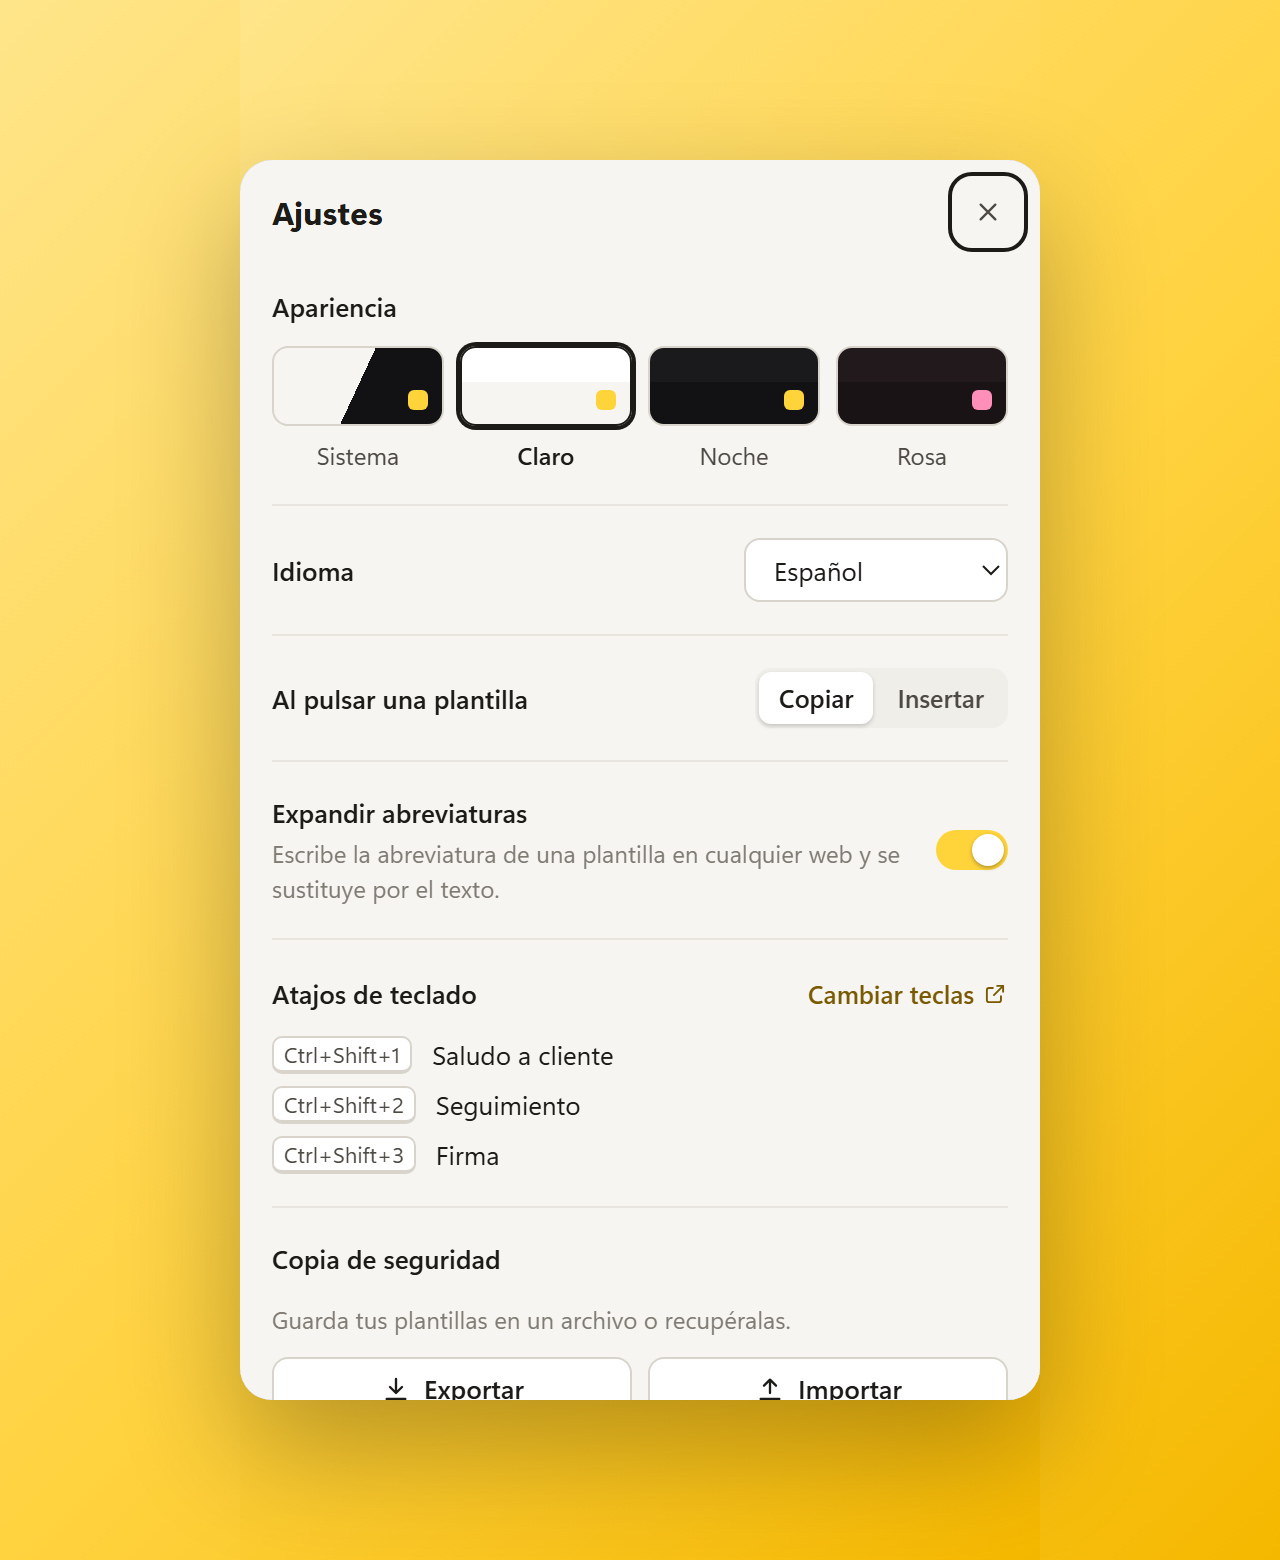
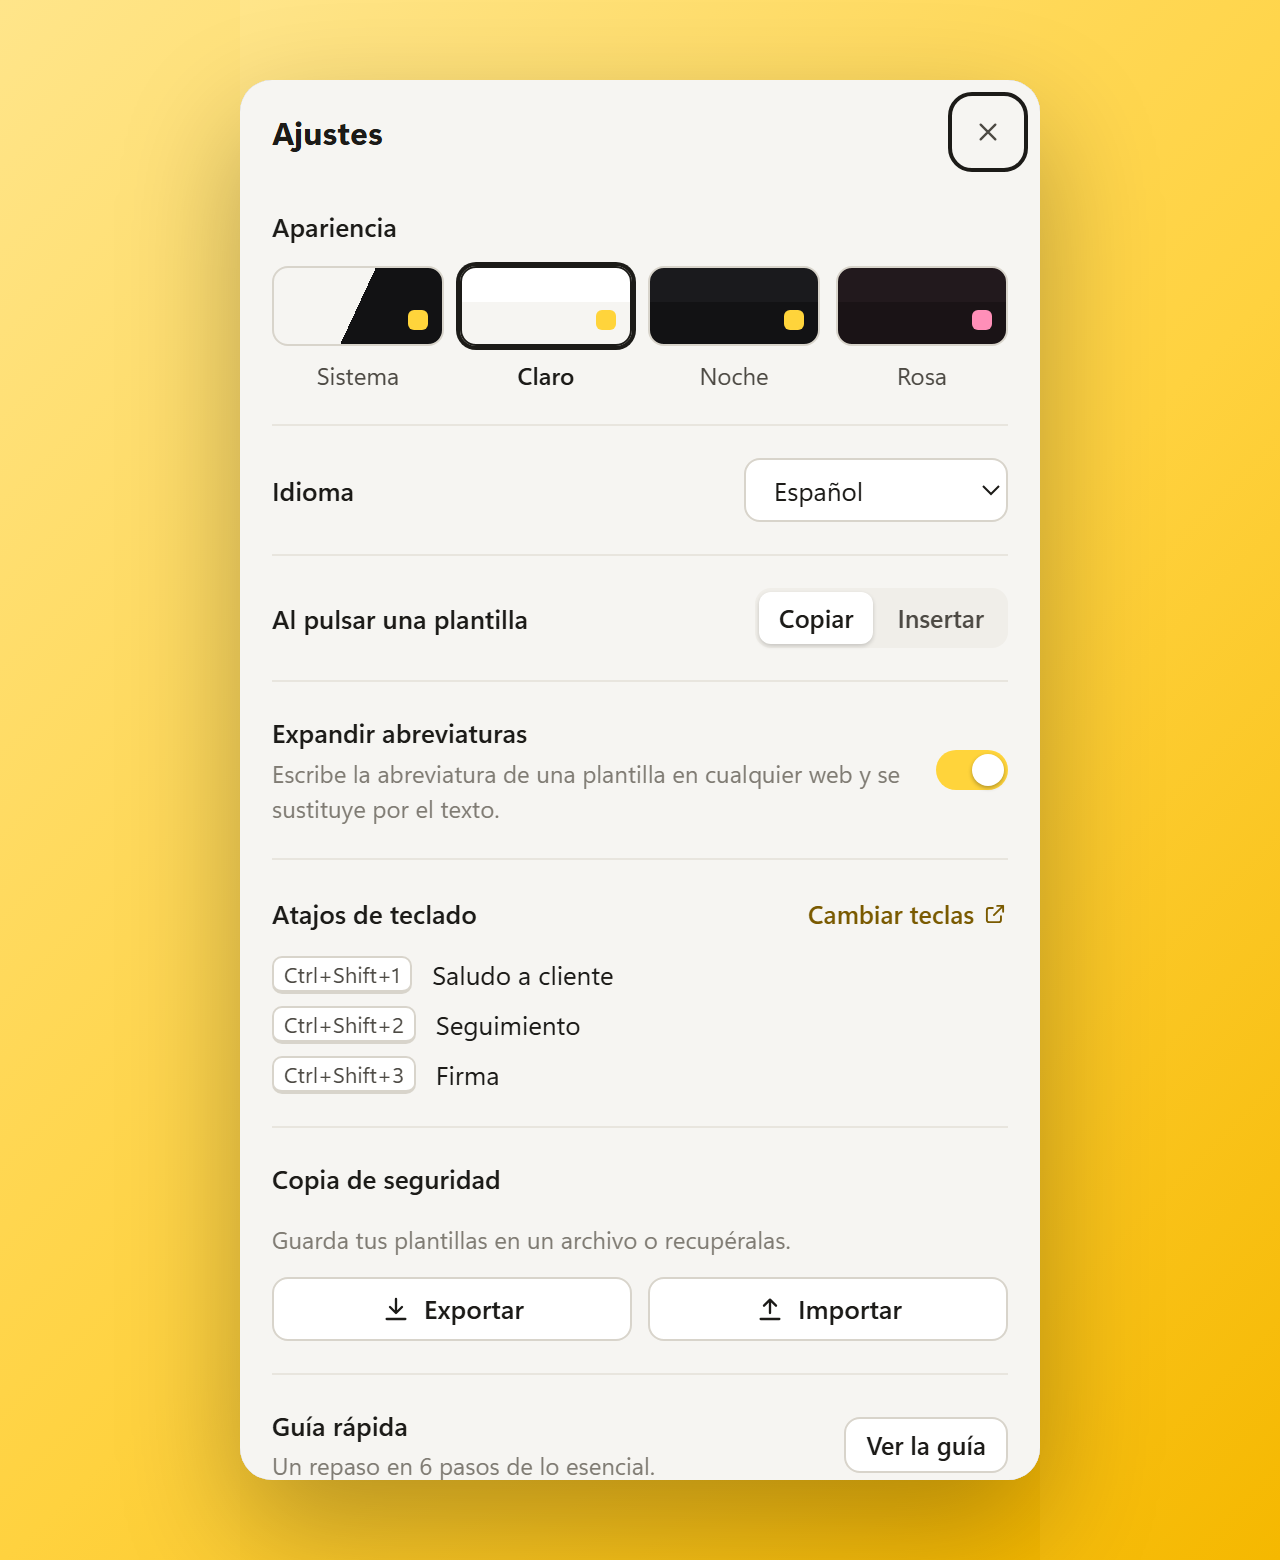
Fraseo 1.3.1: README, capturas (guía rápida) y política actualizados

diff --git a/README.md b/README.md
@@ -7,7 +7,7 @@
 
 **Plantillas y abreviaturas de texto para Chrome.**
 
-[![Descargar](https://img.shields.io/badge/⬇_Descargar-v1.3.0-ffd23f?style=for-the-badge&logo=googlechrome&logoColor=black)](https://github.com/dannymedinacoronel/Fraseo-Extension/releases/latest) ![Manifest V3](https://img.shields.io/badge/Manifest-V3-7b2ff7?style=flat-square) ![Chrome 120+](https://img.shields.io/badge/Chrome-120%2B-4285F4?style=flat-square&logo=googlechrome&logoColor=white) ![Idiomas](https://img.shields.io/badge/idiomas-3-3b82f6?style=flat-square) ![Gratis](https://img.shields.io/badge/precio-gratis-2e9b63?style=flat-square)
+[![Descargar](https://img.shields.io/badge/⬇_Descargar-v1.3.1-ffd23f?style=for-the-badge&logo=googlechrome&logoColor=black)](https://github.com/dannymedinacoronel/Fraseo-Extension/releases/latest) ![Manifest V3](https://img.shields.io/badge/Manifest-V3-7b2ff7?style=flat-square) ![Chrome 120+](https://img.shields.io/badge/Chrome-120%2B-4285F4?style=flat-square&logo=googlechrome&logoColor=white) ![Idiomas](https://img.shields.io/badge/idiomas-3-3b82f6?style=flat-square) ![Gratis](https://img.shields.io/badge/precio-gratis-2e9b63?style=flat-square)
 
 **[Capturas](#capturas)** · **[Funciones](#lo-esencial)** · **[Instalar](#instalar-en-chrome)** · **[Privacidad](#privacidad)** · **[Soporte](#soporte)**
 
@@ -21,9 +21,9 @@
 |---|---|---|
 | ![Panel de Fraseo en tema claro](docs/capturas/panel-claro.png) | ![Panel de Fraseo en tema Noche](docs/capturas/panel-noche.png) | ![Panel de Fraseo en tema Rosa](docs/capturas/panel-rosa.png) |
 
-| Editor de plantillas | Ajustes |
-|---|---|
-| ![Editor de plantillas con formato, categorías y variables](docs/capturas/editor.png) | ![Ajustes: apariencia, idioma, atajos y copia de seguridad](docs/capturas/ajustes.png) |
+| Editor de plantillas | Ajustes | Guía rápida |
+|---|---|---|
+| ![Editor de plantillas con formato, categorías y variables](docs/capturas/editor.png) | ![Ajustes: apariencia, idioma, atajos y copia de seguridad](docs/capturas/ajustes.png) | ![Guía rápida de 6 pasos](docs/capturas/guia.png) |
 
 ## Lo esencial
 
@@ -37,7 +37,7 @@
 
 ## Instalar en Chrome
 
-1. Ve a **[Releases](../../releases/latest)** y descarga `fraseo-1.3.0.zip`.
+1. Ve a **[Releases](../../releases/latest)** y descarga `fraseo-1.3.1.zip`.
 2. Descomprime el ZIP en una carpeta que no vayas a borrar (Chrome la lee desde ahí).
 3. Abre `chrome://extensions` y activa el **Modo de desarrollador**.
 4. Pulsa **Cargar descomprimida** y selecciona la carpeta descomprimida.

diff --git a/PRIVACY.md b/PRIVACY.md
@@ -1,6 +1,6 @@
 # Privacidad y permisos de Fraseo
 
-*Actualizado: 27 de octubre de 2026 · Versión 1.3.0 · Responsable: Danny Medina Coronel ([empresademkor@gmail.com](mailto:empresademkor@gmail.com))*
+*Actualizado: 27 de octubre de 2026 · Versión 1.3.1 · Responsable: Danny Medina Coronel ([empresademkor@gmail.com](mailto:empresademkor@gmail.com))*
 
 ## En pocas palabras
 
@@ -41,7 +41,7 @@ Puedes editar o eliminar plantillas desde Fraseo, exportar una copia, desactivar
 
 ## Seguridad y alcance
 
-Fraseo no incluye conexión a un servidor propio ni bibliotecas externas. Este aviso describe el comportamiento de la versión 1.3.0, se ofrece como información de privacidad y no sustituye la política del sitio web o del proveedor de búsqueda al que decidas enviar un texto.
+Fraseo no incluye conexión a un servidor propio ni bibliotecas externas. Este aviso describe el comportamiento de la versión 1.3.1, se ofrece como información de privacidad y no sustituye la política del sitio web o del proveedor de búsqueda al que decidas enviar un texto.
 
 ## Contacto
 
